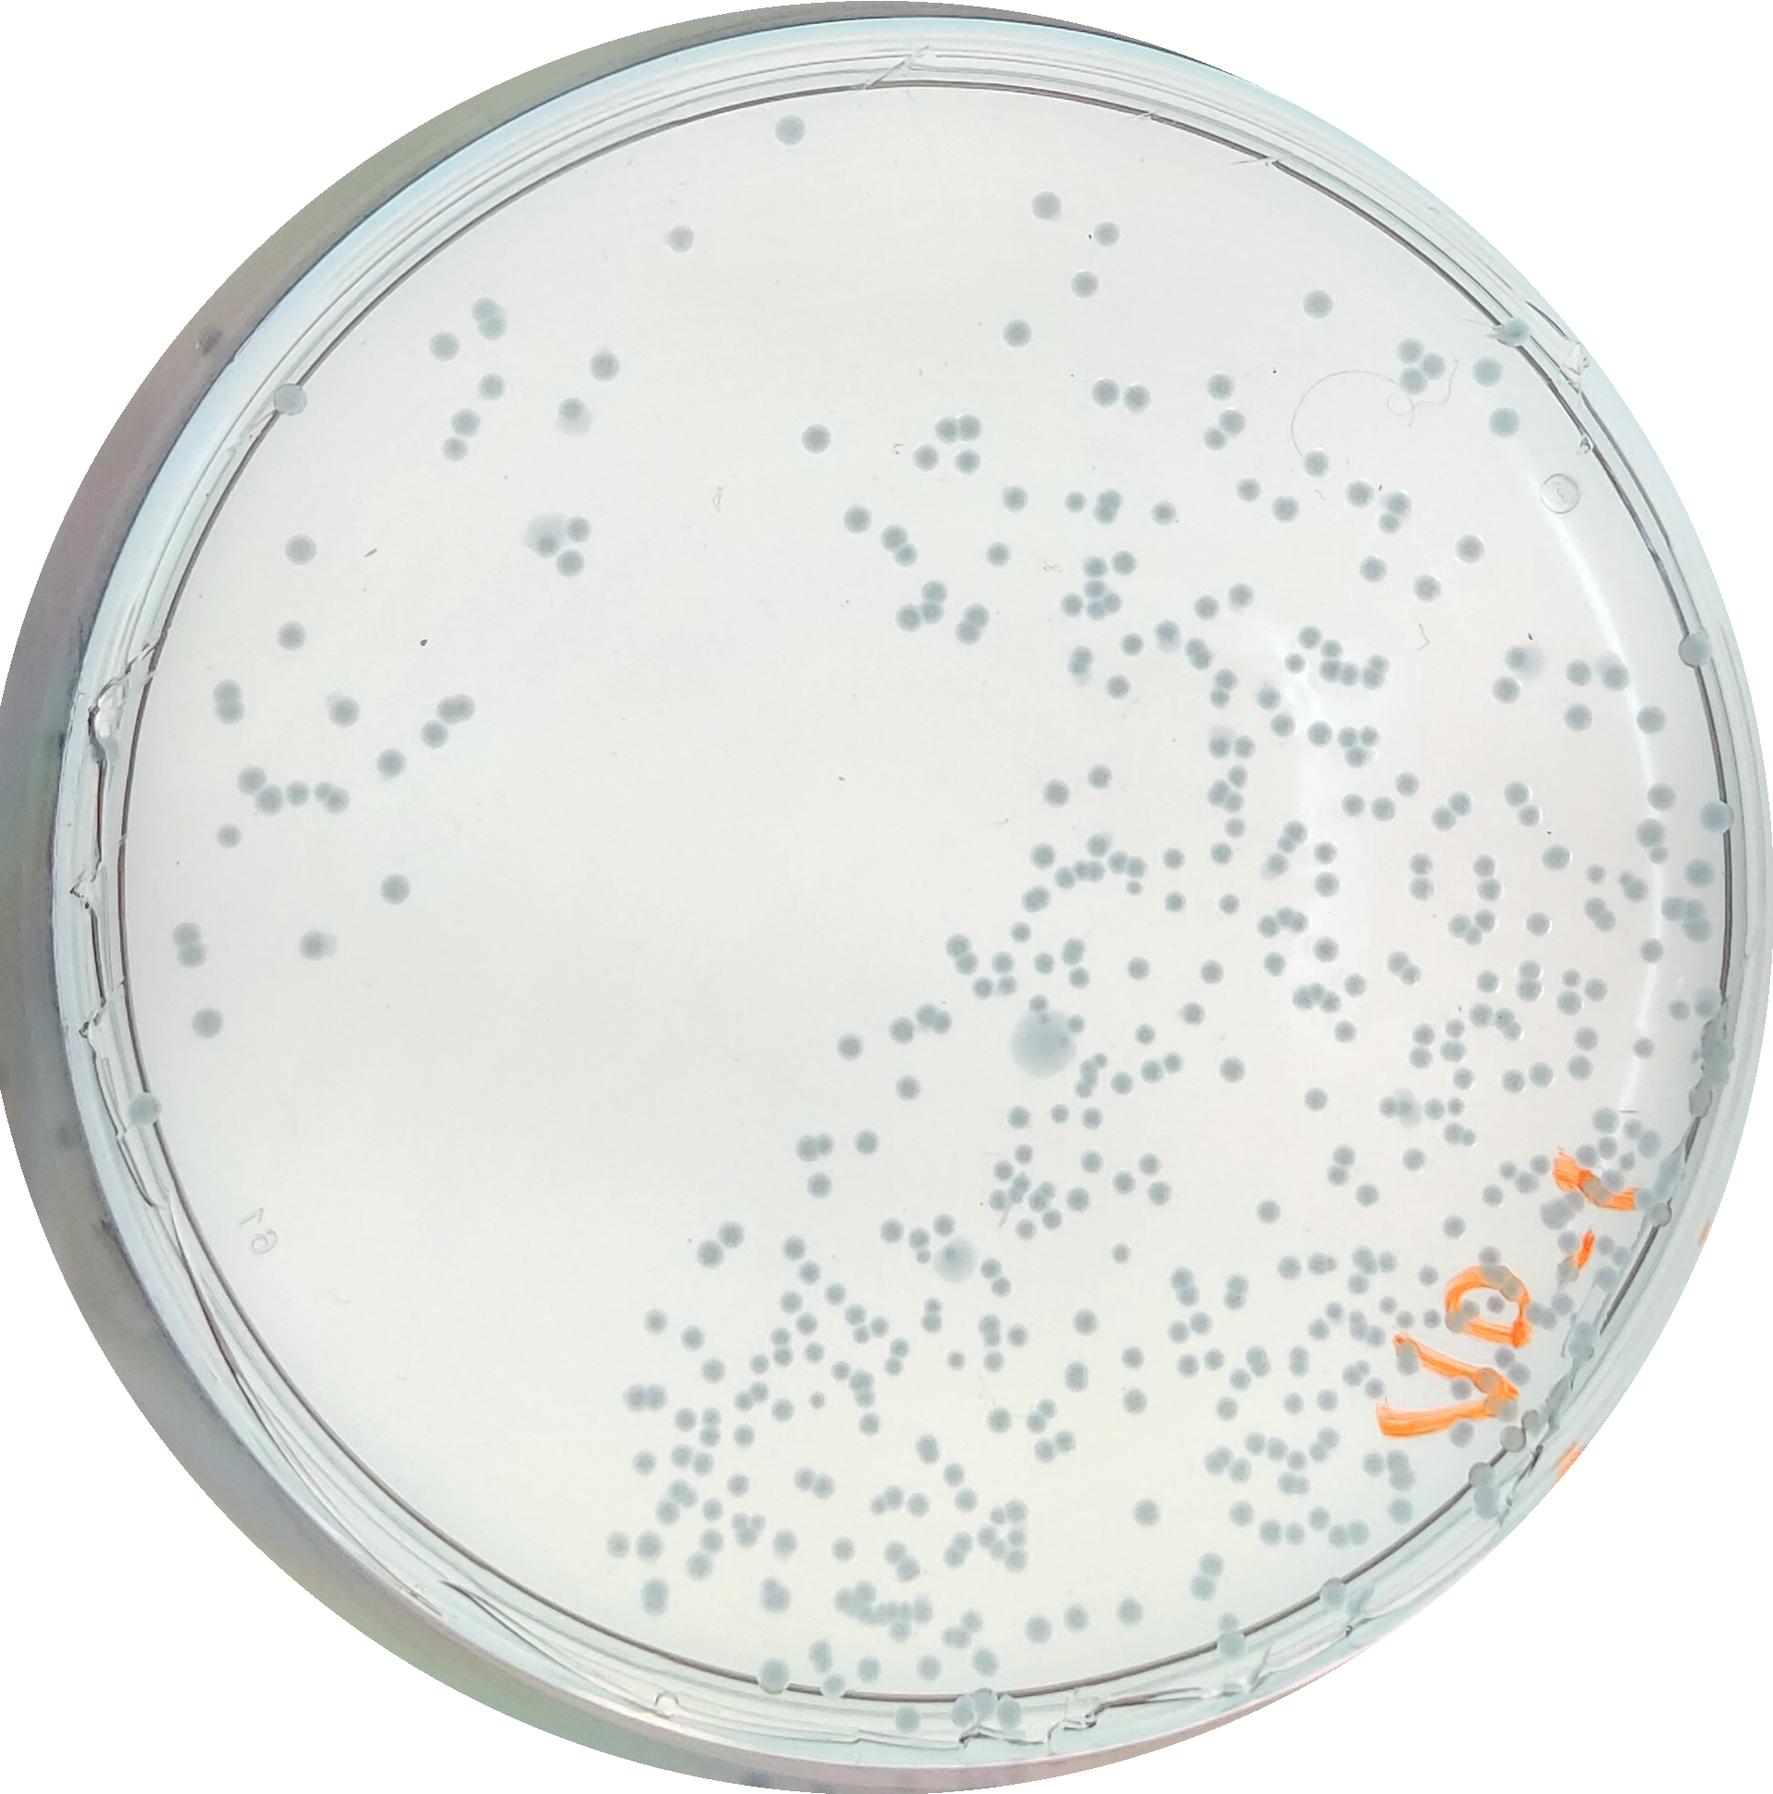
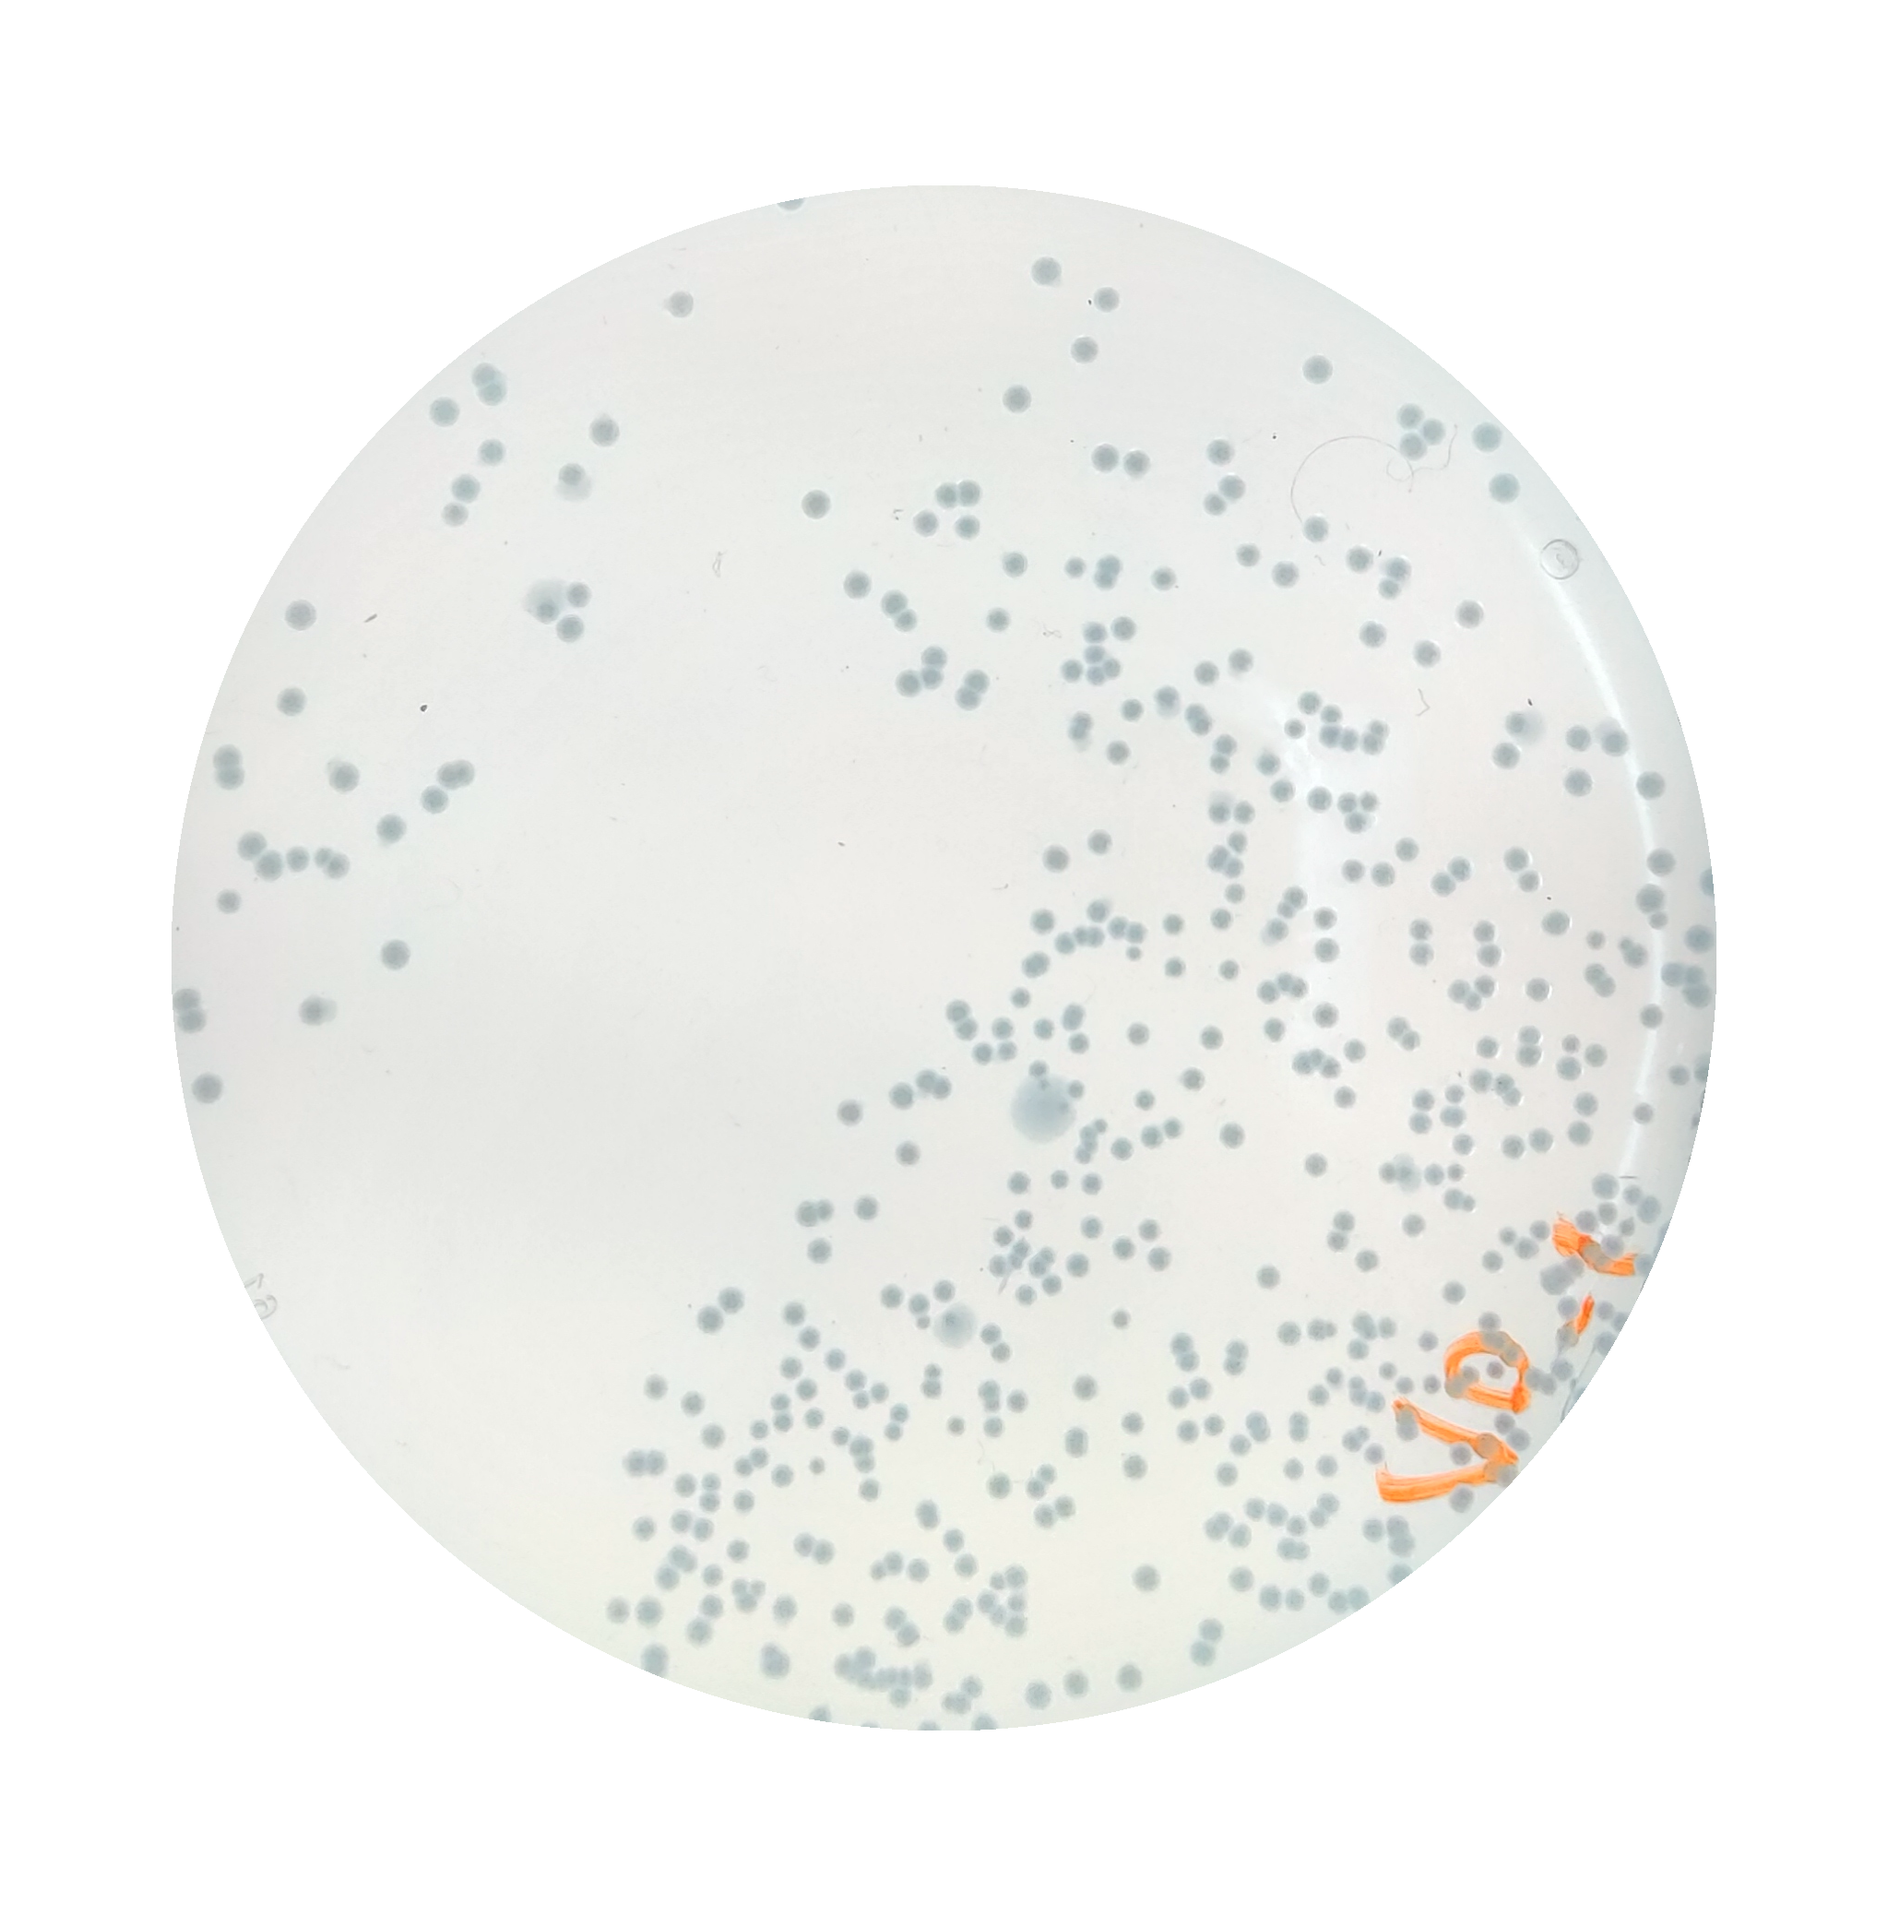
[fix] crop image more to have a better mask centroid
This image does not contain the the hole petri. Use a higher dish radius
to find the circle near the exact centroid and reduce this radius by an offset.

diff --git a/README.md b/README.md
@@ -9,21 +9,17 @@ Apply a mask based on the petri dish radius and use the watershed algorithm to f
 
 | ID | Area | Diameter | Eccentricity | Min NN Distance | Centroid         | Label |
 |----|------|----------|--------------|-----------------|------------------|-------|
-| 1  | 544  | 26.31    | 0.41         | 110.53          | 963.69, 428.5    | 2383  |
-| 2  | 518  | 25.68    | 0.25         | 88.28           | 475.36, 884.16   | 1533  |
+| 1  | 451  | 23.96    | 0.49         | 119.77          | 258.62, 736.92   | 1020  |
+| 2  | 544  | 26.31    | 0.41         | 110.53          | 963.69, 428.5    | 2383  |
 | 3  | 489  | 24.95    | 0.37         | 108.63          | 329.33, 1428.18  | 1179  |
-| 4  | 563  | 26.77    | 0.31         | 73.27           | 1109.12, 224.09  | 2607  |
-| 5  | 451  | 23.96    | 0.49         | 119.77          | 258.62, 736.92   | 1020  |
-| 6  | 460  | 24.2     | 0.42         | 90.56           | 361.56, 1102.45  | 1265  |
+| 4  | 518  | 25.68    | 0.25         | 88.28           | 475.36, 884.16   | 1533  |
+| 5  | 460  | 24.2     | 0.42         | 90.56           | 361.56, 1102.45  | 1265  |
+| 6  | 578  | 27.12    | 0.33         | 58.12           | 457.72, 1630.32  | 1490  |
 | 7  | 395  | 22.42    | 0.36         | 89.90           | 1639.70, 1242.21 | 4310  |
-| 8  | 545  | 26.34    | 0.42         | 71.15           | 223.18, 1134.33  | 905   |
-| 9  | 578  | 27.12    | 0.33         | 58.12           | 457.72, 1630.32  | 1490  |
-| 10 | 519  | 25.7     | 0.29         | 58.92           | 396.84, 655.35   | 1366  |
-| 11 | 487  | 24.9     | 0.47         | 83.71           | 689.23, 315.88   | 1932  |
+| 8  | 487  | 24.9     | 0.47         | 83.71           | 689.23, 315.88   | 1932  |
+| 9  | 545  | 26.34    | 0.42         | 71.15           | 223.18, 1134.33  | 905   |
+| 11 | 482  | 24.77    | 0.82         | 56.02           | 826.56, 423.97   | 2192  |
 | 12 | 505  | 25.35    | 0.31         | 59.18           | 780.18, 1789.22  | 2134  |
-| 13 | 439  | 23.64    | 0.29         | 59.23           | 307.50, 1175.10  | 1141  |
-| 14 | 401  | 22.59    | 0.28         | 58.41           | 637.58, 1547.02  | 1829  |
-| 15 | 482  | 24.77    | 0.82         | 56.02           | 826.56, 423.97   | 2192  |
 
 
 ## Dependencies
@@ -51,7 +47,7 @@ $ python3 demo/demo.py --image_path=dataset/intel_rs_d415_1.png --dish_radius=40
 $ python3 demo/demo.py --image_path=dataset/intel_rs_d415_2.png --dish_radius=400 --cell_min_radius=3 --cell_max_radius=10
 
 # oneplus camera
-$ python3 demo/demo.py --image_path=dataset/oneplus_hd1900_1.jpg --dish_radius=1000 --cell_min_radius=6
+$ python3 demo/demo.py --image_path=dataset/oneplus_hd1900_1.jpg --dish_radius=1050 --dish_inner_offset=200 --cell_min_radius=6 --cell_max_radius=26
 
 ```
 
